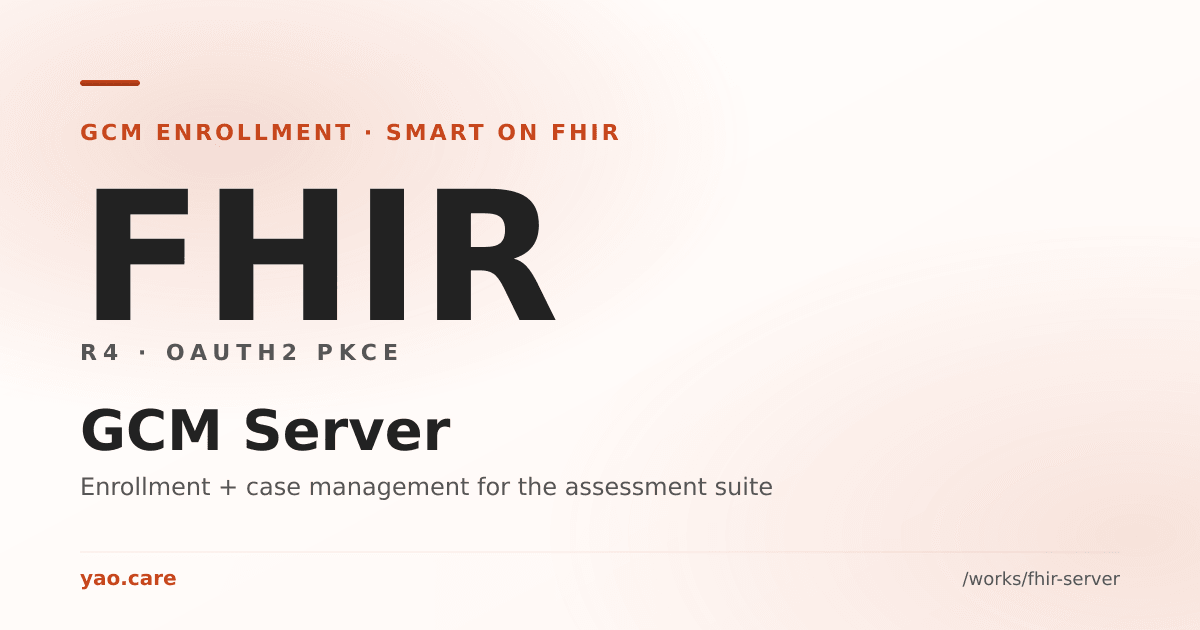
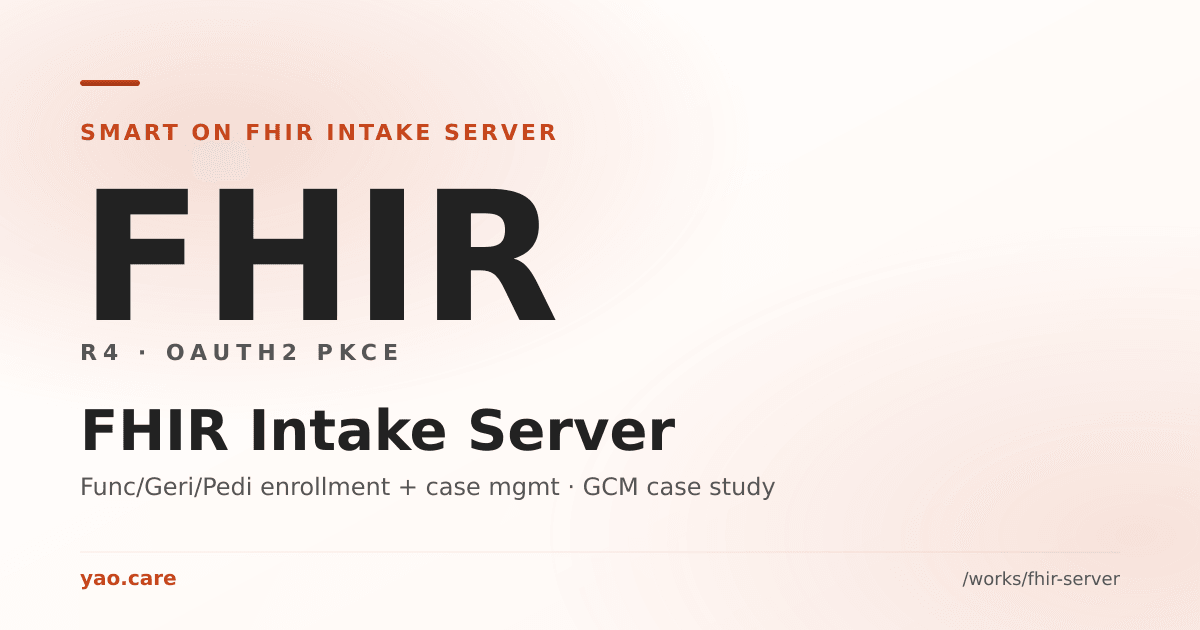
refactor(fhir-server): 重新定位為通用收案伺服器，GCM 改為導入案例
- 顯示名 GCM SMART on FHIR 收案伺服器 → SMART on FHIR 收案伺服器（通用後端）
- fhir-server 頁加「三套全齡評估皆可收案」區（連 func/geri/pedi）+「導入案例 GCM」區，導言/CTA 改通用
- GcmClosedLoop 通用化：標題/步驟/連結改「收案伺服器」，GCM 標為導入案例
- seo.config FAQ 改通用 + 加「哪些系統可收案」；gen-og 文案通用化；CLAUDE.md 同步

Changed region(s): [[0.0617, 0.6333, 0.5858, 0.7238], [0.0617, 0.181, 0.5242, 0.2413], [0.0617, 0.754, 0.6475, 0.7841]]

diff --git a/src/products.config.ts b/src/products.config.ts
@@ -278,18 +278,18 @@ export const PRODUCTS: readonly Product[] = [
     slug: 'fhir-server',
     category: 'medical',
     group: 'assessment',
-    title: 'GCM SMART on FHIR 收案伺服器',
-    tagline: '全齡評估的收案與個案管理後端 — 以 SMART on FHIR 串起「自評 → 收案 → 追蹤」閉環',
+    title: 'SMART on FHIR 收案伺服器',
+    tagline: '通用收案與個案管理後端 — Smart Func / Geri / Pedi 三系統皆可收案，以 GCM 預防醫學發展協會為導入案例',
     description:
-      'Smart Func / Geri / Pedi 三件式自評工具的收案後端：以 FHIR R4 QuestionnaireResponse 接收自評結果，民眾僅填暱稱、由系統產生收案碼（免帳號密碼），重複評估自動歸戶；後台提供個案狀態追蹤、團隊指派、危險訊號自動升級。隱私優先 —— 先去識別化，原文與個資原值不寫入稽核；全程可稽核、每日加密備份異地備援。以 OAuth 2.0 + PKCE 交付、符合 Inferno FHIR 測試。與 GCM 預防醫學發展協會的公益使命接軌。',
-    ogTitle: 'GCM 收案伺服器',
+      '通用的 SMART on FHIR 收案與個案管理後端：Smart Func（成人）、Smart Geri（高齡）、Smart Pedi（兒童）三套自評工具都能把結果以 FHIR R4 QuestionnaireResponse 送來收案。民眾僅填暱稱、由系統產生收案碼（免帳號密碼），重複評估自動歸戶；後台提供個案狀態追蹤、團隊指派、危險訊號自動升級。隱私優先 —— 先去識別化，原文與個資原值不寫入稽核；全程可稽核、每日加密備份異地備援；以 OAuth 2.0 + PKCE 交付、符合 Inferno FHIR 測試。GCM 預防醫學發展協會為目前的導入案例。',
+    ogTitle: 'SMART on FHIR 收案伺服器',
     ogStat: 'FHIR',
     ogStatLabel: 'R4 · OAUTH2 PKCE',
-    cardKicker: '預防醫學收案 · SMART on FHIR 後端',
+    cardKicker: '通用收案後端 · SMART on FHIR',
     cardBullets: [
-      '接收 Func / Geri / Pedi 的 FHIR R4 自評結果',
+      'Smart Func / Geri / Pedi 三系統皆可收案（FHIR R4）',
       '暱稱 + 收案碼免帳密，重複評估自動歸戶',
-      '個案管理 + 危險訊號升級；隱私優先、全程可稽核',
+      '個案管理 + 危險訊號升級；GCM 協會為導入案例',
     ],
     cta: { label: '談收案串接 / 合作', href: 'mailto:service@yao.care' },
   },

diff --git a/src/seo.config.ts b/src/seo.config.ts
@@ -111,10 +111,11 @@ export const PRODUCT_FAQS: Partial<Record<ProductSlug, readonly Faq[]>> = {
     { q: '怎麼串接？AI agent 也能用嗎？', a: '提供 REST API（POST /medical/validate）與 MCP Server（同網址、同金鑰），一般系統與 AI agent 都能串接；開通、配額與規範版本鎖定請來信 service@yao.care。' },
   ],
   'fhir-server': [
-    { q: 'GCM 收案伺服器是什麼？', a: '它是 Smart Func / Geri / Pedi 自評工具的後端，以 SMART on FHIR 接收自評結果並做個案管理，把「自評 → 收案 → 追蹤」串成閉環。' },
+    { q: 'SMART on FHIR 收案伺服器是什麼？', a: '它是通用的收案與個案管理後端，以 SMART on FHIR 接收自評結果並做個案追蹤，把「自評 → 收案 → 追蹤」串成閉環。目前以 GCM 預防醫學發展協會為導入案例。' },
+    { q: '哪些系統可以收案？', a: 'Smart Func（成人功能健康評估）、Smart Geri（高齡周全性評估）、Smart Pedi（兒童發展評估）三套自評工具都能以 FHIR R4 QuestionnaireResponse 送來收案。' },
     { q: '民眾要註冊帳號嗎？', a: '不用帳號密碼；僅填暱稱、由系統產生收案碼，重複評估會自動歸到同一個案。' },
     { q: '資料隱私如何保障？', a: '先去識別化，原文與個資原值不寫入稽核，只存遮罩文雜湊與狀態摘要；全程可稽核、每日加密備份異地備援。' },
-    { q: '怎麼串接？', a: '以 FHIR R4 QuestionnaireResponse + OAuth 2.0 / PKCE 交付，符合 Inferno FHIR 測試；收案串接與合作請來信 service@yao.care。' },
+    { q: '怎麼串接？', a: '以 FHIR R4 QuestionnaireResponse + OAuth 2.0 / PKCE 交付，符合 Inferno FHIR 測試；收案串接與導入請來信 service@yao.care。' },
   ],
   sign: [
     { q: '長者友善無接觸報到是什麼？', a: '為長照據點打造的純前端人臉辨識報到系統，長者走過鏡頭即自動辨識並語音問候，免按鈕、免簽名、免安裝 App。' },

diff --git a/CLAUDE.md b/CLAUDE.md
@@ -193,7 +193,7 @@ $WWW_REPO_DIR/            ← 原始碼（本目錄）；產物 rsync 到 $WWW_S
 │   │   │   ├── func.astro     ← Smart Func 成人功能健康評估（assessment 子分組）
 │   │   │   ├── geri.astro     ← Smart Geri 高齡周全性評估（assessment；亦跨列於 /care）
 │   │   │   ├── pedi.astro     ← Smart Pedi 兒童發展評估（assessment）
-│   │   │   └── fhir-server.astro ← GCM SMART on FHIR 收案伺服器（slug=fhir-server；assessment 後端；private、無對外站；/medical/gcm 重導至此）
+│   │   │   └── fhir-server.astro ← SMART on FHIR 收案伺服器（slug=fhir-server；通用收案後端，Func/Geri/Pedi 皆可收案，GCM 為導入案例；private、無對外站；/medical/gcm 重導至此）
 │   │   ├── ai/
 │   │   │   ├── index.astro    ← AI 系統 hub
 │   │   │   ├── intel.astro    ← 情報自動化系統
@@ -227,7 +227,7 @@ $WWW_REPO_DIR/            ← 原始碼（本目錄）；產物 rsync 到 $WWW_S
 │       │   ├── ProductHero.astro      ← 產品詳情頁 hero
 │       │   ├── ProductCta.astro       ← 產品詳情頁底部 LINE CTA
 │       │   ├── CapabilityCloud.astro  ← hub 頁的能力雲標籤
-│       │   └── GcmClosedLoop.astro    ← GCM SMART on FHIR 收案閉環 panel（用於 /medical 評估區塊、/care、三個 CDS 頁）
+│       │   └── GcmClosedLoop.astro    ← SMART on FHIR 收案閉環 panel（用於 /medical 評估區塊、/care、CDS 頁；GCM 為案例；深入了解連 /medical/fhir-server）
 │       ├── news/
 │       │   ├── HighlightNews.astro    ← 議題總覽頁上方精選
 │       │   ├── NewsCard.astro         ← 列表卡片
